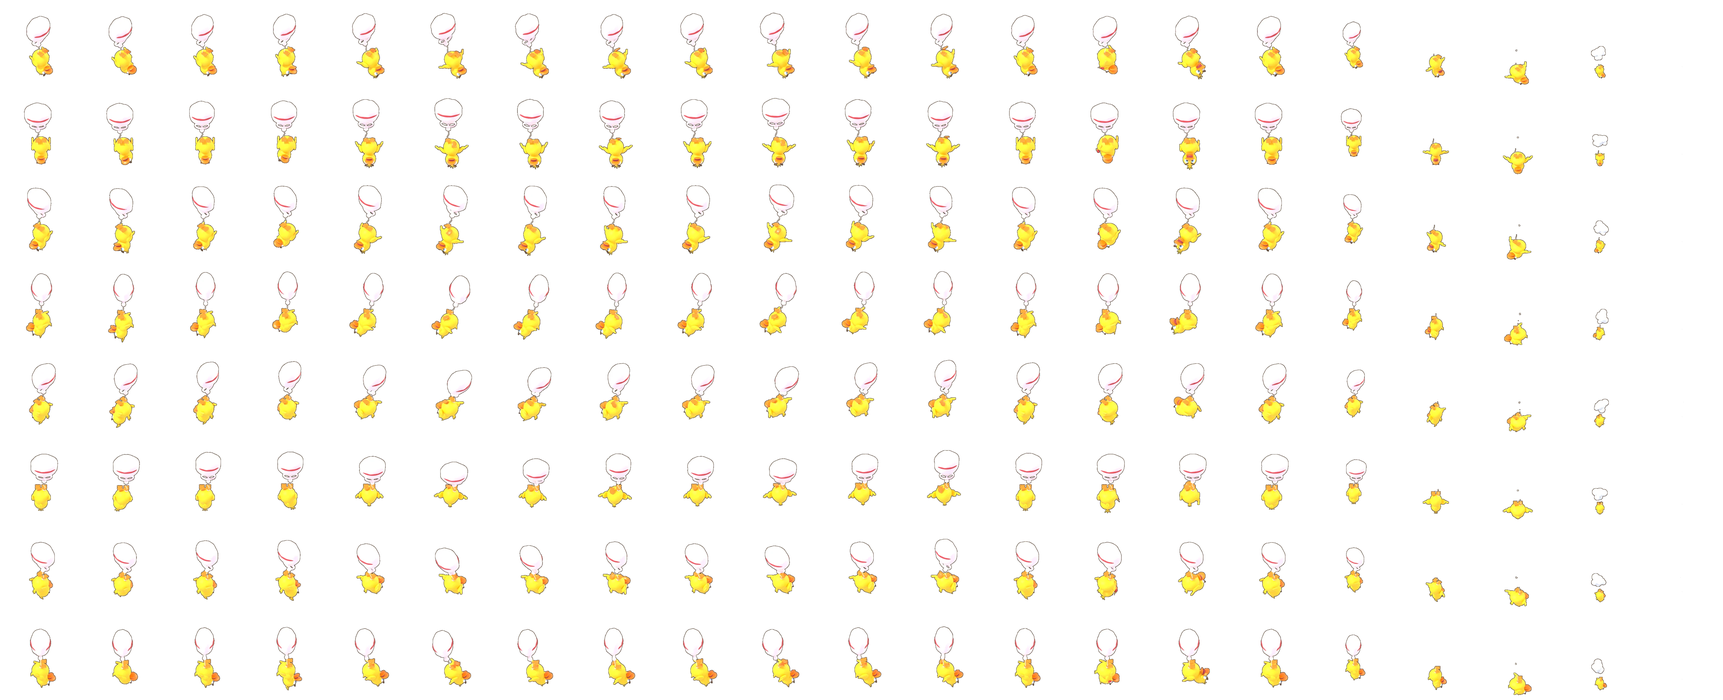
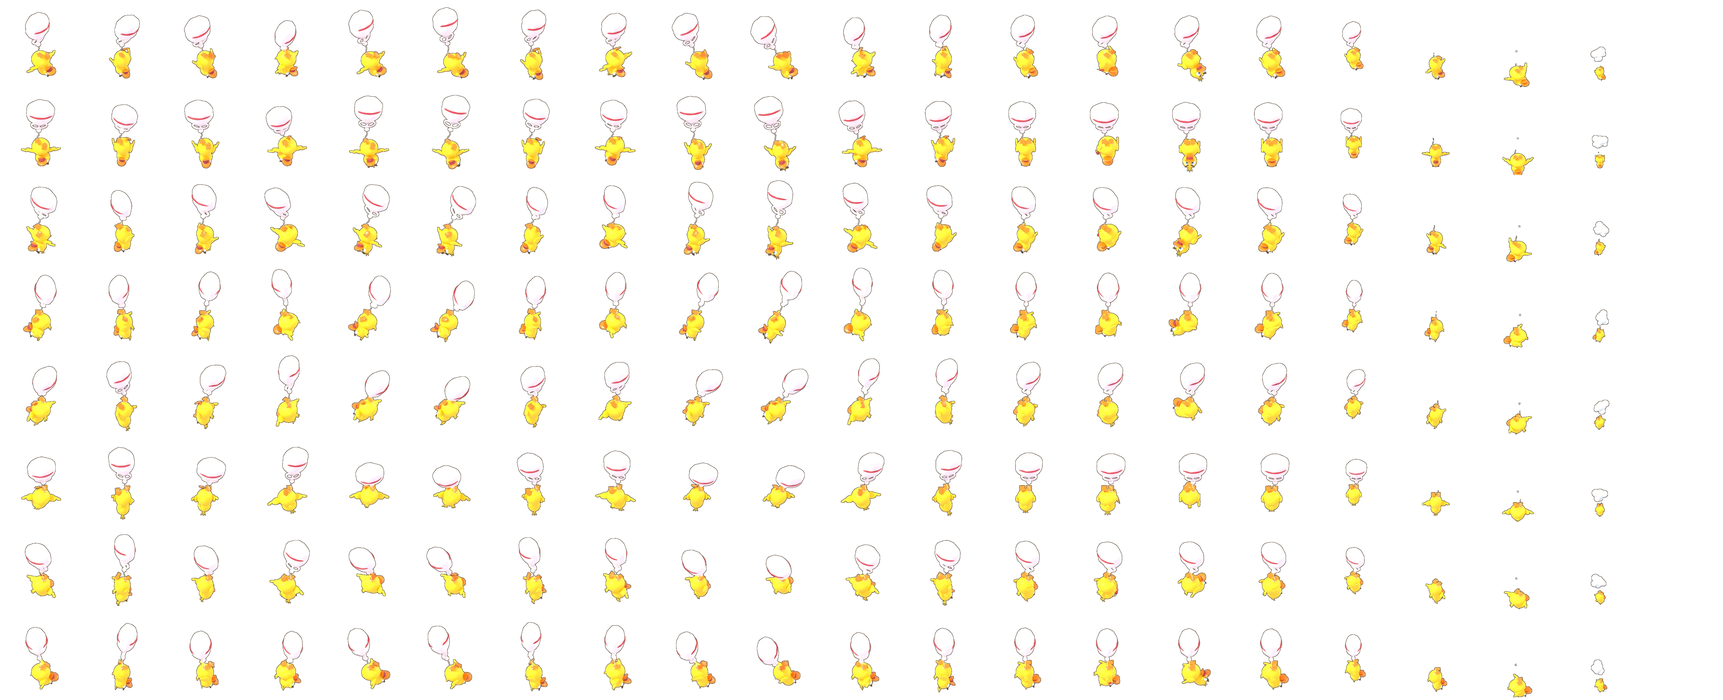
Bag-balloon duck struggles in the air
It was carried off by a shopping bag tied to its foot, so it flails:
wings flapping, beak squawking, body twisting, free leg kicking, bag
tugging and swaying. Frequencies chosen so the 4/8 sampled atlas
frames all differ.

Claude-Session: https://claude.ai/code/session_01ENEEn6jJGjfiPi3hSYqQHy

diff --git a/web/game.js b/web/game.js
@@ -1,5 +1,5 @@
 "use strict";
-var ART={"buildings":{"hq":{"stages":[{"file":"b_hq_1.webp","ax":244.0,"ay":222.4,"ppu":120.084,"w":564,"h":461},{"file":"b_hq_2.webp","ax":207.0,"ay":241.4,"ppu":120.084,"w":527,"h":480},{"file":"b_hq_3.webp","ax":236.0,"ay":332.4,"ppu":120.084,"w":556,"h":571},{"file":"b_hq_4.webp","ax":213.0,"ay":346.4,"ppu":120.084,"w":533,"h":585},{"file":"b_hq_5.webp","ax":279.0,"ay":401.4,"ppu":120.084,"w":599,"h":640}],"rubble":{"file":"b_hq_rubble.webp","ax":207.0,"ay":139.4,"ppu":120.084,"w":414,"h":282}},"barracks":{"stages":[{"file":"b_barracks_1.webp","ax":99.0,"ay":149.4,"ppu":72.199,"w":244,"h":206},{"file":"b_barracks_2.webp","ax":91.0,"ay":219.4,"ppu":72.199,"w":283,"h":276},{"file":"b_barracks_3.webp","ax":91.0,"ay":232.4,"ppu":72.199,"w":283,"h":290},{"file":"b_barracks_4.webp","ax":91.0,"ay":246.4,"ppu":72.199,"w":283,"h":344},{"file":"b_barracks_5.webp","ax":105.0,"ay":259.4,"ppu":72.199,"w":297,"h":357}],"rubble":{"file":"b_barracks_rubble.webp","ax":94.0,"ay":113.4,"ppu":72.199,"w":203,"h":170}},"workshop":{"stages":[{"file":"b_workshop_1.webp","ax":97.0,"ay":193.4,"ppu":72.571,"w":289,"h":291},{"file":"b_workshop_2.webp","ax":102.0,"ay":209.4,"ppu":72.571,"w":294,"h":308},{"file":"b_workshop_3.webp","ax":105.0,"ay":232.4,"ppu":72.571,"w":297,"h":331},{"file":"b_workshop_4.webp","ax":113.0,"ay":238.4,"ppu":72.571,"w":305,"h":337},{"file":"b_workshop_5.webp","ax":114.0,"ay":285.4,"ppu":72.571,"w":306,"h":384}],"rubble":{"file":"b_workshop_rubble.webp","ax":95.0,"ay":112.4,"ppu":72.571,"w":214,"h":169}},"honeypump":{"stages":[{"file":"b_honeypump_1.webp","ax":73.0,"ay":131.4,"ppu":50.242,"w":240,"h":171},{"file":"b_honeypump_2.webp","ax":68.0,"ay":138.4,"ppu":50.242,"w":236,"h":178},{"file":"b_honeypump_3.webp","ax":68.0,"ay":156.4,"ppu":50.242,"w":260,"h":206},{"file":"b_honeypump_4.webp","ax":67.0,"ay":192.4,"ppu":50.242,"w":259,"h":243},{"file":"b_honeypump_5.webp","ax":77.0,"ay":192.4,"ppu":50.242,"w":269,"h":290}],"rubble":{"file":"b_honeypump_rubble.webp","ax":102.0,"ay":113.4,"ppu":50.242,"w":206,"h":153}},"veggieblender":{"stages":[{"file":"b_veggieblender_1.webp","ax":131.0,"ay":285.4,"ppu":96.762,"w":323,"h":361},{"file":"b_veggieblender_2.webp","ax":131.0,"ay":285.4,"ppu":96.762,"w":323,"h":361},{"file":"b_veggieblender_3.webp","ax":131.0,"ay":185.4,"ppu":96.762,"w":323,"h":261},{"file":"b_veggieblender_4.webp","ax":131.0,"ay":190.4,"ppu":96.762,"w":323,"h":266},{"file":"b_veggieblender_5.webp","ax":132.0,"ay":210.4,"ppu":96.762,"w":324,"h":286}],"rubble":{"file":"b_veggieblender_rubble.webp","ax":112.0,"ay":113.4,"ppu":96.762,"w":224,"h":189}},"syrupstove":{"stages":[{"file":"b_syrupstove_1.webp","ax":48.0,"ay":133.4,"ppu":41.379,"w":202,"h":184},{"file":"b_syrupstove_2.webp","ax":112.0,"ay":138.4,"ppu":41.379,"w":284,"h":188},{"file":"b_syrupstove_3.webp","ax":112.0,"ay":155.4,"ppu":41.379,"w":304,"h":205},{"file":"b_syrupstove_4.webp","ax":112.0,"ay":166.4,"ppu":41.379,"w":304,"h":264},{"file":"b_syrupstove_5.webp","ax":112.0,"ay":197.4,"ppu":41.379,"w":304,"h":295}],"rubble":{"file":"b_syrupstove_rubble.webp","ax":94.0,"ay":112.4,"ppu":41.379,"w":211,"h":145}},"honeyjar":{"stages":[{"file":"b_honeyjar_1.webp","ax":60.0,"ay":137.4,"ppu":43.171,"w":252,"h":171},{"file":"b_honeyjar_2.webp","ax":66.0,"ay":155.4,"ppu":43.171,"w":258,"h":199},{"file":"b_honeyjar_3.webp","ax":70.0,"ay":173.4,"ppu":43.171,"w":262,"h":271},{"file":"b_honeyjar_4.webp","ax":94.0,"ay":191.4,"ppu":43.171,"w":286,"h":289},{"file":"b_honeyjar_5.webp","ax":99.0,"ay":209.4,"ppu":43.171,"w":291,"h":308}],"rubble":{"file":"b_honeyjar_rubble.webp","ax":94.0,"ay":124.4,"ppu":43.171,"w":198,"h":159}},"veggiejar":{"stages":[{"file":"b_veggiejar_1.webp","ax":60.0,"ay":137.4,"ppu":43.171,"w":252,"h":171},{"file":"b_veggiejar_2.webp","ax":67.0,"ay":155.4,"ppu":43.171,"w":259,"h":200},{"file":"b_veggiejar_3.webp","ax":70.0,"ay":173.4,"ppu":43.171,"w":262,"h":271},{"file":"b_veggiejar_4.webp","ax":95.0,"ay":191.4,"ppu":43.171,"w":287,"h":289},{"file":"b_veggiejar_5.webp","ax":99.0,"ay":209.4,"ppu":43.171,"w":291,"h":308}],"rubble":{"file":"b_veggiejar_rubble.webp","ax":96.0,"ay":124.4,"ppu":43.171,"w":200,"h":159}},"syrupjar":{"stages":[{"file":"b_syrupjar_1.webp","ax":60.0,"ay":137.4,"ppu":43.171,"w":252,"h":171},{"file":"b_syrupjar_2.webp","ax":67.0,"ay":155.4,"ppu":43.171,"w":259,"h":200},{"file":"b_syrupjar_3.webp","ax":70.0,"ay":173.4,"ppu":43.171,"w":262,"h":271},{"file":"b_syrupjar_4.webp","ax":101.0,"ay":191.4,"ppu":43.171,"w":293,"h":289},{"file":"b_syrupjar_5.webp","ax":99.0,"ay":209.4,"ppu":43.171,"w":291,"h":308}],"rubble":{"file":"b_syrupjar_rubble.webp","ax":98.0,"ay":124.4,"ppu":43.171,"w":202,"h":159}},"camp":{"stages":[{"file":"b_camp_1.webp","ax":270.5,"ay":357.1,"ppu":67.237,"w":542,"h":543},{"file":"b_camp_2.webp","ax":270.5,"ay":357.1,"ppu":67.237,"w":542,"h":543},{"file":"b_camp_3.webp","ax":270.5,"ay":357.1,"ppu":67.237,"w":542,"h":543},{"file":"b_camp_4.webp","ax":221.5,"ay":357.1,"ppu":67.237,"w":493,"h":543},{"file":"b_camp_5.webp","ax":221.5,"ay":357.1,"ppu":67.237,"w":493,"h":543}],"rubble":{"file":"b_camp_rubble.webp","ax":270.5,"ay":356.1,"ppu":67.237,"w":542,"h":542}},"airfield":{"stages":[{"file":"b_airfield_1.webp","ax":183.5,"ay":379.2,"ppu":59.918,"w":415,"h":463},{"file":"b_airfield_2.webp","ax":229.5,"ay":379.2,"ppu":59.918,"w":461,"h":463},{"file":"b_airfield_3.webp","ax":229.5,"ay":379.2,"ppu":59.918,"w":461,"h":463},{"file":"b_airfield_4.webp","ax":229.5,"ay":379.2,"ppu":59.918,"w":461,"h":463},{"file":"b_airfield_5.webp","ax":229.5,"ay":379.2,"ppu":59.918,"w":461,"h":463}],"rubble":{"file":"b_airfield_rubble.webp","ax":230.5,"ay":378.2,"ppu":59.918,"w":462,"h":462}},"lab":{"stages":[{"file":"b_lab_1.webp","ax":67.0,"ay":123.4,"ppu":48.009,"w":207,"h":161},{"file":"b_lab_2.webp","ax":101.0,"ay":211.4,"ppu":48.009,"w":293,"h":272},{"file":"b_lab_3.webp","ax":107.0,"ay":221.4,"ppu":48.009,"w":299,"h":320},{"file":"b_lab_4.webp","ax":117.0,"ay":234.4,"ppu":48.009,"w":309,"h":333},{"file":"b_lab_5.webp","ax":116.0,"ay":229.4,"ppu":48.009,"w":308,"h":287}],"rubble":{"file":"b_lab_rubble.webp","ax":95.0,"ay":112.4,"ppu":48.009,"w":207,"h":150}},"pantry":{"stages":[{"file":"b_pantry_1.webp","ax":113.0,"ay":162.4,"ppu":70.711,"w":305,"h":260},{"file":"b_pantry_2.webp","ax":118.0,"ay":224.4,"ppu":70.711,"w":310,"h":322},{"file":"b_pantry_3.webp","ax":119.0,"ay":237.4,"ppu":70.711,"w":311,"h":336},{"file":"b_pantry_4.webp","ax":120.0,"ay":285.4,"ppu":70.711,"w":312,"h":384},{"file":"b_pantry_5.webp","ax":120.0,"ay":275.4,"ppu":70.711,"w":312,"h":373}],"rubble":{"file":"b_pantry_rubble.webp","ax":96.0,"ay":123.4,"ppu":70.711,"w":200,"h":179}},"hero":{"stages":[{"file":"b_hero_1.webp","ax":89.0,"ay":198.6,"ppu":72.199,"w":301,"h":262},{"file":"b_hero_2.webp","ax":103.0,"ay":198.6,"ppu":72.199,"w":315,"h":277},{"file":"b_hero_3.webp","ax":107.0,"ay":333.6,"ppu":72.199,"w":319,"h":421},{"file":"b_hero_4.webp","ax":107.0,"ay":334.6,"ppu":72.199,"w":319,"h":422},{"file":"b_hero_5.webp","ax":126.0,"ay":334.6,"ppu":72.199,"w":338,"h":422}],"rubble":{"file":"b_hero_rubble.webp","ax":96.0,"ay":137.6,"ppu":72.199,"w":308,"h":194}}},"turrets":{"slingshot":{"stages":[{"file":"t_slingshot_1.webp","cell":192,"ax":96.0,"ay":165.7,"ppu":79.948,"tips":[[107.5,134.6],[102.0,138.3],[94.2,138.9],[88.8,137.7],[83.9,134.6],[80.9,130.4],[77.3,74.9],[70.0,102.0],[67.0,93.6],[67.6,85.1],[117.1,77.3],[123.2,85.1],[124.4,93.6],[121.4,102.6],[114.1,74.9],[110.5,130.4]]},{"file":"t_slingshot_2.webp","cell":192,"ax":96.0,"ay":165.6,"ppu":78.955,"tips":[[109.1,132.5],[103.8,136.1],[94.2,137.9],[87.7,136.1],[82.3,132.5],[79.9,129.6],[75.7,68.7],[68.6,95.6],[63.8,87.2],[63.8,77.7],[120.4,68.7],[126.4,77.1],[127.6,87.2],[122.8,95.6],[115.7,68.7],[112.1,127.8]]},{"file":"t_slingshot_3.webp","cell":192,"ax":96.0,"ay":166.5,"ppu":77.041,"tips":[[110.5,129.6],[104.1,134.3],[96.0,136.0],[87.3,134.3],[82.0,131.4],[75.1,117.4],[74.5,104.0],[66.3,90.1],[62.3,79.0],[61.1,69.7],[94.3,55.7],[130.3,69.7],[130.3,80.7],[125.1,89.5],[116.9,104.0],[116.4,118.0]]},{"file":"t_slingshot_4.webp","cell":192,"ax":96.0,"ay":166.7,"ppu":66.207,"tips":[[109.0,135.0],[104.5,137.5],[95.0,139.5],[87.0,137.5],[82.5,135.0],[76.5,123.5],[75.5,108.0],[66.0,101.5],[55.0,95.0],[58.5,76.5],[80.5,64.0],[133.0,76.5],[137.0,94.5],[126.0,103.5],[116.0,108.0],[115.5,122.0]]},{"file":"t_slingshot_5.webp","cell":192,"ax":96.0,"ay":164.2,"ppu":66.207,"tips":[[111.0,128.5],[106.5,131.5],[94.0,134.0],[85.0,131.5],[79.5,127.5],[74.0,115.0],[73.0,100.5],[63.0,93.0],[51.5,85.5],[88.5,44.5],[95.5,44.5],[103.0,45.0],[141.0,85.5],[128.5,93.0],[118.5,100.0],[117.5,115.0]]}],"fit":1.894},"boxtower":{"stages":[{"file":"t_boxtower_1.webp","cell":192,"ax":96.0,"ay":168.4,"ppu":79.448,"tips":[[106.2,114.2],[101.4,120.8],[90.6,122.0],[90.0,120.8],[85.2,114.2],[79.2,102.8],[79.8,97.4],[79.2,99.2],[81.0,94.4],[85.8,90.8],[90.6,89.0],[105.6,90.8],[110.4,95.0],[112.2,99.2],[111.6,97.4],[112.2,102.2]]},{"file":"t_boxtower_2.webp","cell":192,"ax":96.0,"ay":166.7,"ppu":66.207,"tips":[[104.0,107.0],[101.0,111.5],[92.0,113.0],[91.0,111.5],[87.5,107.0],[82.0,96.5],[82.5,92.0],[82.0,93.5],[83.5,90.0],[87.5,86.5],[92.0,85.0],[104.0,86.5],[108.0,90.0],[109.5,93.5],[109.0,92.0],[109.5,96.5]]},{"file":"t_boxtower_3.webp","cell":192,"ax":96.0,"ay":142.7,"ppu":66.207,"tips":[[112.5,63.0],[110.5,71.5],[80.0,75.5],[80.0,71.0],[80.0,64.5],[78.0,52.5],[82.5,46.5],[77.5,64.5],[75.5,59.0],[76.5,53.0],[104.0,48.0],[115.0,53.0],[116.0,59.0],[114.0,64.5],[109.0,46.5],[112.0,57.0]]},{"file":"t_boxtower_4.webp","cell":192,"ax":96.0,"ay":143.7,"ppu":66.207,"tips":[[111.5,59.0],[111.0,65.5],[80.0,70.0],[80.0,65.5],[80.0,59.0],[78.0,47.0],[82.5,41.0],[78.0,58.5],[75.5,53.5],[76.5,47.5],[104.0,42.5],[115.0,47.5],[116.0,53.0],[114.0,59.0],[109.0,41.0],[113.5,47.0]]},{"file":"t_boxtower_5.webp","cell":192,"ax":96.0,"ay":143.2,"ppu":66.207,"tips":[[115.0,49.0],[115.0,57.5],[75.5,63.0],[76.0,57.0],[76.5,49.0],[76.0,36.0],[82.5,30.5],[76.0,54.5],[72.5,48.5],[72.5,41.5],[115.0,35.0],[119.0,41.5],[119.0,48.5],[115.5,55.0],[109.0,30.5],[115.5,36.0]]}],"fit":2.147},"mortar":{"stages":[{"file":"t_mortar_1.webp","cell":192,"ax":96.0,"ay":160.0,"ppu":94.864,"tips":[[122.5,114.6],[115.3,121.7],[91.0,126.7],[75.9,121.7],[68.8,114.6],[66.6,109.6],[65.9,97.4],[65.9,97.4],[78.1,76.6],[82.4,73.0],[88.8,70.1],[108.9,73.0],[113.2,77.3],[125.4,97.4],[125.4,98.1],[125.4,107.4]]},{"file":"t_mortar_2.webp","cell":192,"ax":96.0,"ay":164.0,"ppu":83.083,"tips":[[119.8,120.5],[113.6,126.1],[96.0,131.1],[77.8,126.1],[70.9,119.8],[68.4,113.6],[67.8,104.8],[69.6,97.9],[72.8,93.5],[74.7,86.6],[106.0,80.9],[118.0,87.2],[120.5,96.0],[123.6,104.2],[123.6,106.0],[122.4,115.5]]},{"file":"t_mortar_3.webp","cell":192,"ax":96.0,"ay":165.7,"ppu":70.231,"tips":[[118.3,123.6],[111.9,130.0],[94.9,134.2],[79.0,129.5],[73.7,124.2],[71.6,119.9],[71.1,109.8],[71.1,109.3],[69.5,108.2],[68.4,99.8],[92.8,89.2],[124.1,100.3],[121.5,107.2],[120.4,109.3],[120.4,109.8],[120.4,118.3]]},{"file":"t_mortar_4.webp","cell":192,"ax":96.0,"ay":164.2,"ppu":66.207,"tips":[[118.0,123.0],[112.5,128.5],[95.5,133.5],[79.0,128.5],[73.5,123.0],[71.0,116.5],[71.0,110.5],[71.0,109.0],[63.0,115.0],[57.0,105.5],[104.0,91.0],[133.0,104.5],[128.0,114.5],[119.5,106.0],[120.5,110.5],[120.5,116.5]]},{"file":"t_mortar_5.webp","cell":192,"ax":96.0,"ay":143.7,"ppu":66.207,"tips":[[119.0,99.0],[113.0,104.5],[95.5,109.5],[79.0,105.0],[72.0,98.0],[70.5,94.5],[69.5,86.0],[70.5,81.5],[55.0,97.0],[44.5,85.5],[93.5,64.5],[146.0,85.0],[136.5,97.0],[121.0,81.5],[122.0,86.0],[120.5,96.0]]}],"fit":2.515},"watergun":{"stages":[{"file":"t_watergun_1.webp","cell":192,"ax":96.0,"ay":168.3,"ppu":97.036,"tips":[[135.6,104.3],[112.9,127.0],[90.1,131.4],[79.1,127.7],[55.7,104.3],[44.0,90.4],[40.3,72.0],[44.0,57.4],[55.7,44.2],[74.0,34.7],[96.0,31.0],[117.3,34.7],[135.6,44.2],[147.3,57.4],[151.0,72.8],[147.3,91.1]]},{"file":"t_watergun_2.webp","cell":192,"ax":96.0,"ay":169.8,"ppu":83.63,"tips":[[135.2,107.1],[111.8,129.8],[95.4,134.2],[79.6,129.8],[56.2,107.1],[46.7,93.2],[45.5,76.1],[47.4,69.2],[56.2,56.5],[71.4,47.1],[90.3,42.6],[119.4,47.1],[135.2,57.2],[144.0,69.2],[145.9,76.7],[144.6,92.5]]},{"file":"t_watergun_3.webp","cell":192,"ax":96.0,"ay":168.1,"ppu":69.845,"tips":[[133.5,108.3],[109.7,131.0],[94.4,134.7],[81.8,131.0],[58.0,108.3],[51.7,96.7],[51.7,81.4],[51.7,80.9],[58.0,69.3],[70.7,59.8],[87.0,54.5],[120.8,59.8],[132.9,68.8],[139.8,80.9],[139.8,81.4],[139.8,96.7]]},{"file":"t_watergun_4.webp","cell":192,"ax":96.0,"ay":167.7,"ppu":66.207,"tips":[[118.0,130.5],[108.0,136.0],[95.5,137.5],[83.5,136.0],[73.0,130.5],[50.5,94.5],[52.0,79.0],[50.5,84.0],[56.0,71.5],[68.0,61.0],[83.0,55.5],[123.5,61.0],[135.5,71.5],[141.0,84.0],[139.5,79.0],[141.0,94.5]]},{"file":"t_watergun_5.webp","cell":192,"ax":96.0,"ay":161.7,"ppu":66.207,"tips":[[132.5,107.0],[108.5,126.5],[95.5,128.0],[83.0,126.5],[59.0,107.0],[49.0,93.5],[46.5,77.0],[49.0,67.5],[58.5,55.0],[72.5,46.5],[92.5,42.0],[119.0,46.5],[133.0,55.0],[142.5,67.5],[145.0,77.0],[142.5,93.5]]}],"fit":2.554},"chili":{"stages":[{"file":"t_chili_1.webp","cell":192,"ax":96.0,"ay":171.1,"ppu":72.638,"tips":[[114.7,126.4],[109.7,130.8],[93.8,134.6],[82.3,131.3],[77.3,127.0],[72.4,114.9],[70.8,103.4],[71.9,99.5],[76.8,92.9],[82.3,89.7],[91.1,86.4],[108.1,89.1],[116.3,95.1],[119.6,99.5],[120.7,103.9],[118.5,117.1]]},{"file":"t_chili_2.webp","cell":192,"ax":96.0,"ay":169.2,"ppu":66.207,"tips":[[113.5,121.0],[108.5,126.0],[95.0,129.5],[83.0,126.0],[78.5,122.0],[73.0,114.5],[70.5,99.0],[71.5,95.5],[76.0,89.0],[83.0,84.5],[93.0,82.0],[108.5,84.5],[116.0,89.5],[120.0,95.0],[121.0,99.0],[119.5,111.5]]},{"file":"t_chili_3.webp","cell":192,"ax":96.0,"ay":164.7,"ppu":66.207,"tips":[[117.0,108.5],[108.5,115.0],[95.5,118.5],[83.0,115.0],[73.5,107.0],[70.0,102.0],[68.0,85.5],[69.0,82.0],[73.5,75.5],[82.5,69.5],[94.0,67.0],[109.0,69.5],[118.0,75.5],[122.5,82.0],[123.5,86.0],[122.0,100.0]]},{"file":"t_chili_4.webp","cell":192,"ax":96.0,"ay":143.7,"ppu":66.207,"tips":[[119.0,83.0],[108.5,90.5],[94.0,93.0],[81.5,89.5],[72.5,83.0],[67.5,74.0],[66.0,59.5],[67.0,55.5],[72.0,48.0],[79.0,43.0],[93.0,39.0],[111.5,42.5],[120.0,48.5],[124.5,55.5],[125.5,59.5],[123.5,76.0]]},{"file":"t_chili_5.webp","cell":192,"ax":96.0,"ay":143.7,"ppu":66.207,"tips":[[120.5,79.0],[111.0,86.0],[95.0,89.5],[80.5,86.0],[71.0,79.0],[65.5,69.5],[64.0,54.0],[65.0,50.0],[70.0,42.0],[79.0,35.5],[91.5,32.0],[112.5,35.5],[121.5,42.0],[126.0,48.0],[127.5,54.0],[125.5,71.0]]}],"fit":2.443},"rockets":{"stages":[{"file":"t_rockets_1.webp","cell":192,"ax":96.0,"ay":167.9,"ppu":94.864,"tips":[[120.4,122.5],[113.2,128.9],[91.0,133.2],[78.1,128.9],[70.9,122.5],[58.0,93.1],[57.3,81.6],[57.3,81.6],[63.8,71.6],[74.5,63.7],[103.2,58.7],[117.5,63.7],[127.5,71.6],[134.0,81.6],[133.3,81.6],[133.3,93.1]]},{"file":"t_rockets_2.webp","cell":192,"ax":96.0,"ay":169.5,"ppu":83.63,"tips":[[118.7,125.1],[113.1,130.1],[94.7,135.2],[78.3,130.1],[73.9,126.3],[59.4,98.5],[58.1,87.2],[58.7,86.5],[68.2,71.4],[77.1,64.4],[89.1,60.6],[114.3,64.4],[122.5,71.4],[132.6,86.5],[132.6,87.2],[132.6,98.5]]},{"file":"t_rockets_3.webp","cell":192,"ax":96.0,"ay":167.9,"ppu":70.231,"tips":[[116.7,125.8],[111.4,131.1],[93.3,135.3],[81.1,131.6],[74.8,125.8],[62.1,99.8],[63.6,89.7],[62.1,96.6],[65.2,87.0],[74.8,75.9],[84.3,71.1],[116.7,75.9],[123.6,82.8],[129.9,96.6],[127.8,89.7],[129.4,99.8]]},{"file":"t_rockets_4.webp","cell":192,"ax":96.0,"ay":165.2,"ppu":66.207,"tips":[[116.5,124.0],[110.5,129.5],[91.0,133.0],[81.0,129.5],[75.0,124.0],[61.0,99.0],[62.5,88.5],[61.0,94.5],[70.5,77.0],[76.5,70.5],[85.0,66.0],[115.0,70.5],[121.0,77.0],[130.5,94.5],[129.0,88.5],[130.5,99.0]]},{"file":"t_rockets_5.webp","cell":192,"ax":96.0,"ay":159.7,"ppu":66.207,"tips":[[118.0,114.0],[112.0,120.0],[95.0,124.5],[79.5,120.0],[74.5,115.5],[58.0,85.5],[61.5,82.5],[58.0,87.5],[60.5,76.5],[71.0,61.0],[80.0,55.0],[120.5,61.5],[128.0,73.0],[133.5,87.5],[130.0,74.5],[133.5,85.5]]}],"fit":2.515},"fan":{"stages":[{"file":"t_fan_1.webp","cell":192,"ax":96.0,"ay":167.8,"ppu":96.301,"tips":[[111.3,93.4],[96.7,111.5],[93.8,111.5],[93.8,110.8],[80.0,93.4],[80.7,85.4],[82.9,75.9],[79.3,76.6],[79.3,65.0],[84.4,57.0],[91.6,53.4],[108.4,57.7],[112.7,65.7],[112.0,76.6],[108.4,75.9],[111.3,83.2]]},{"file":"t_fan_2.webp","cell":192,"ax":96.0,"ay":169.8,"ppu":83.63,"tips":[[113.7,94.4],[96.6,115.3],[94.1,115.3],[94.7,115.3],[79.6,96.9],[82.1,91.9],[84.6,82.4],[81.5,78.0],[78.9,71.7],[84.6,62.8],[92.8,59.1],[108.0,63.5],[111.8,71.1],[110.5,79.9],[106.7,81.8],[109.3,91.9]]},{"file":"t_fan_3.webp","cell":192,"ax":96.0,"ay":167.9,"ppu":70.231,"tips":[[109.8,101.9],[96.5,117.3],[95.5,117.8],[94.9,117.3],[81.7,101.9],[83.8,97.1],[86.5,87.0],[82.7,83.9],[80.6,77.0],[84.3,69.5],[95.5,65.3],[107.1,69.5],[109.8,75.9],[108.2,82.3],[105.0,87.0],[109.8,90.2]]},{"file":"t_fan_4.webp","cell":192,"ax":96.0,"ay":164.7,"ppu":66.207,"tips":[[118.5,93.5],[98.5,114.0],[94.5,115.0],[93.0,114.0],[73.0,93.5],[79.5,88.0],[87.0,84.5],[79.5,85.0],[73.5,79.0],[93.0,58.5],[95.5,58.0],[99.0,58.5],[118.5,79.0],[112.0,84.5],[104.5,85.0],[112.0,88.0]]},{"file":"t_fan_5.webp","cell":192,"ax":96.0,"ay":159.7,"ppu":66.207,"tips":[[120.5,82.5],[98.5,105.0],[95.5,106.0],[93.0,104.5],[71.0,82.5],[78.0,76.0],[87.0,73.0],[78.5,73.0],[71.5,67.0],[92.5,44.0],[95.5,44.5],[99.0,44.0],[120.0,67.0],[113.0,73.5],[104.5,73.0],[113.5,76.0]]}],"fit":2.515},"lens":{"stages":[{"file":"t_lens_1.webp","cell":192,"ax":96.0,"ay":167.8,"ppu":100.887,"tips":[[112.0,98.1],[105.1,104.2],[90.7,105.8],[84.6,103.5],[79.2,98.1],[57.9,63.9],[56.4,53.2],[57.9,47.9],[64.8,37.2],[76.2,29.6],[91.4,25.8],[116.6,30.3],[127.2,38.0],[133.3,47.1],[134.9,52.4],[133.3,63.9]]},{"file":"t_lens_2.webp","cell":192,"ax":96.0,"ay":169.3,"ppu":88.276,"tips":[[128.7,75.7],[104.0,105.0],[90.7,106.3],[85.3,103.7],[64.0,77.0],[58.7,67.0],[57.3,59.7],[59.3,51.7],[66.7,41.7],[75.3,36.3],[92.7,31.7],[116.0,36.3],[124.7,41.7],[132.0,51.7],[133.3,57.0],[132.7,67.0]]},{"file":"t_lens_3.webp","cell":192,"ax":96.0,"ay":174.2,"ppu":66.207,"tips":[[117.5,121.5],[90.0,137.5],[75.0,134.0],[65.0,126.0],[60.5,117.0],[60.0,105.5],[65.5,94.0],[68.0,81.5],[73.5,72.5],[80.5,68.0],[93.0,64.5],[111.0,68.0],[118.0,72.5],[123.0,79.5],[126.0,103.5],[124.0,113.5]]},{"file":"t_lens_4.webp","cell":192,"ax":96.0,"ay":169.7,"ppu":66.207,"tips":[[132.5,107.5],[127.5,117.5],[75.5,126.0],[65.0,118.0],[60.0,108.5],[59.0,95.5],[65.0,85.0],[67.0,71.5],[71.5,64.0],[80.5,57.5],[92.0,54.5],[108.0,56.0],[120.0,64.0],[124.5,71.5],[126.5,85.0],[132.5,95.5]]},{"file":"t_lens_5.webp","cell":192,"ax":96.0,"ay":163.7,"ppu":66.207,"tips":[[132.0,96.5],[127.0,106.0],[75.0,114.0],[64.5,106.0],[59.5,96.5],[58.5,83.5],[63.5,60.5],[64.5,56.5],[68.5,50.0],[80.0,41.5],[92.5,38.5],[112.5,42.0],[122.5,49.5],[127.0,56.5],[128.0,60.0],[133.0,83.5]]}],"fit":3.2}},"troops":{"fork":{"file":"u_fork.webp","ax":90.0,"ay":150.4,"h":147.4},"sling":{"file":"u_sling.webp","ax":90.0,"ay":150.4,"h":120.4},"giant":{"file":"u_giant.webp","ax":90.0,"ay":155.8,"h":136.8},"nurse":{"file":"u_nurse.webp","ax":90.0,"ay":163.6,"h":141.6},"digger":{"file":"u_digger.webp","ax":90.0,"ay":145.5,"h":121.5},"pot":{"file":"u_pot.webp","ax":90.0,"ay":152.0,"h":131.0},"chef":{"file":"u_chef.webp","ax":90.0,"ay":153.5,"h":123.5},"pig":{"file":"u_pig.webp","ax":90.0,"ay":155.7,"h":142.7},"bomber":{"file":"u_bomber.webp","ax":90.0,"ay":150.4,"h":110.4},"witch":{"file":"u_witch.webp","ax":90.0,"ay":155.1,"h":112.1},"dog":{"file":"u_dog.webp","ax":90.0,"ay":134.1,"h":104.1},"egret":{"file":"u_egret.webp","ax":90.0,"ay":150.9,"h":123.9},"cat_spatula":{"file":"u_cat_spatula.webp","ax":90.0,"ay":141.4,"h":107.4},"cat_pan":{"file":"u_cat_pan.webp","ax":90.0,"ay":144.1,"h":112.1},"cat_chili":{"file":"u_cat_chili.webp","ax":90.0,"ay":141.4,"h":105.4},"cat_bomb":{"file":"u_cat_bomb.webp","ax":90.0,"ay":141.4,"h":105.4},"cat_king":{"file":"u_cat_king.webp","ax":90.0,"ay":145.8,"h":125.8},"colonel":{"file":"u_colonel.webp","ax":135.0,"ay":221.9,"h":180.9,"cw":270,"ch":288},"balloon":{"file":"u_balloon.webp","ax":135.0,"ay":271.8,"h":235.8,"cw":270,"ch":288},"plane":{"file":"u_plane.webp","ax":90.0,"ay":145.2,"h":101.2}},"walls":{"1":{"post":{"file":"w_1_post.webp","ax":6.0,"ay":86.5,"ppu":132.5,"w":55,"h":67},"linkx":{"file":"w_1_linkx.webp","ax":2.0,"ay":54.5,"ppu":132.5,"w":51,"h":51},"linky":{"file":"w_1_linky.webp","ax":2.0,"ay":86.5,"ppu":132.5,"w":51,"h":46}},"2":{"post":{"file":"w_2_post.webp","ax":10.0,"ay":94.5,"ppu":132.5,"w":59,"h":76},"linkx":{"file":"w_2_linkx.webp","ax":2.0,"ay":59.5,"ppu":132.5,"w":51,"h":66},"linky":{"file":"w_2_linky.webp","ax":2.0,"ay":94.5,"ppu":132.5,"w":51,"h":66}},"3":{"post":{"file":"w_3_post.webp","ax":12.0,"ay":105.5,"ppu":132.5,"w":64,"h":90},"linkx":{"file":"w_3_linkx.webp","ax":4.0,"ay":70.5,"ppu":132.5,"w":55,"h":85},"linky":{"file":"w_3_linky.webp","ax":5.0,"ay":105.5,"ppu":132.5,"w":57,"h":84}},"4":{"post":{"file":"w_4_post.webp","ax":14.0,"ay":106.5,"ppu":132.5,"w":63,"h":92},"linkx":{"file":"w_4_linkx.webp","ax":2.0,"ay":73.5,"ppu":132.5,"w":51,"h":82},"linky":{"file":"w_4_linky.webp","ax":2.0,"ay":106.5,"ppu":132.5,"w":51,"h":81}},"5":{"post":{"file":"w_5_post.webp","ax":21.0,"ay":96.5,"ppu":132.5,"w":81,"h":83},"linkx":{"file":"w_5_linkx.webp","ax":7.0,"ay":64.5,"ppu":132.5,"w":67,"h":73},"linky":{"file":"w_5_linky.webp","ax":7.0,"ay":96.5,"ppu":132.5,"w":67,"h":73}},"6":{"post":{"file":"w_6_post.webp","ax":49.0,"ay":119.5,"ppu":132.5,"w":108,"h":115},"linkx":{"file":"w_6_linkx.webp","ax":12.0,"ay":84.5,"ppu":132.5,"w":71,"h":104},"linky":{"file":"w_6_linky.webp","ax":12.0,"ay":119.5,"ppu":132.5,"w":71,"h":104}}},"troopLayout":{"cw":180,"ch":192,"dirs":8,"idle":[0,4],"walk":[4,8],"attack":[12,4],"death":[16,5]}};
+var ART={"buildings":{"hq":{"stages":[{"file":"b_hq_1.webp","ax":244.0,"ay":222.4,"ppu":120.084,"w":564,"h":461},{"file":"b_hq_2.webp","ax":207.0,"ay":241.4,"ppu":120.084,"w":527,"h":480},{"file":"b_hq_3.webp","ax":236.0,"ay":332.4,"ppu":120.084,"w":556,"h":571},{"file":"b_hq_4.webp","ax":213.0,"ay":346.4,"ppu":120.084,"w":533,"h":585},{"file":"b_hq_5.webp","ax":279.0,"ay":401.4,"ppu":120.084,"w":599,"h":640}],"rubble":{"file":"b_hq_rubble.webp","ax":207.0,"ay":139.4,"ppu":120.084,"w":414,"h":282}},"barracks":{"stages":[{"file":"b_barracks_1.webp","ax":99.0,"ay":149.4,"ppu":72.199,"w":244,"h":206},{"file":"b_barracks_2.webp","ax":91.0,"ay":219.4,"ppu":72.199,"w":283,"h":276},{"file":"b_barracks_3.webp","ax":91.0,"ay":232.4,"ppu":72.199,"w":283,"h":290},{"file":"b_barracks_4.webp","ax":91.0,"ay":246.4,"ppu":72.199,"w":283,"h":344},{"file":"b_barracks_5.webp","ax":105.0,"ay":259.4,"ppu":72.199,"w":297,"h":357}],"rubble":{"file":"b_barracks_rubble.webp","ax":94.0,"ay":113.4,"ppu":72.199,"w":203,"h":170}},"workshop":{"stages":[{"file":"b_workshop_1.webp","ax":97.0,"ay":193.4,"ppu":72.571,"w":289,"h":291},{"file":"b_workshop_2.webp","ax":102.0,"ay":209.4,"ppu":72.571,"w":294,"h":308},{"file":"b_workshop_3.webp","ax":105.0,"ay":232.4,"ppu":72.571,"w":297,"h":331},{"file":"b_workshop_4.webp","ax":113.0,"ay":238.4,"ppu":72.571,"w":305,"h":337},{"file":"b_workshop_5.webp","ax":114.0,"ay":285.4,"ppu":72.571,"w":306,"h":384}],"rubble":{"file":"b_workshop_rubble.webp","ax":95.0,"ay":112.4,"ppu":72.571,"w":214,"h":169}},"honeypump":{"stages":[{"file":"b_honeypump_1.webp","ax":73.0,"ay":131.4,"ppu":50.242,"w":240,"h":171},{"file":"b_honeypump_2.webp","ax":68.0,"ay":138.4,"ppu":50.242,"w":236,"h":178},{"file":"b_honeypump_3.webp","ax":68.0,"ay":156.4,"ppu":50.242,"w":260,"h":206},{"file":"b_honeypump_4.webp","ax":67.0,"ay":192.4,"ppu":50.242,"w":259,"h":243},{"file":"b_honeypump_5.webp","ax":77.0,"ay":192.4,"ppu":50.242,"w":269,"h":290}],"rubble":{"file":"b_honeypump_rubble.webp","ax":102.0,"ay":113.4,"ppu":50.242,"w":206,"h":153}},"veggieblender":{"stages":[{"file":"b_veggieblender_1.webp","ax":131.0,"ay":285.4,"ppu":96.762,"w":323,"h":361},{"file":"b_veggieblender_2.webp","ax":131.0,"ay":285.4,"ppu":96.762,"w":323,"h":361},{"file":"b_veggieblender_3.webp","ax":131.0,"ay":185.4,"ppu":96.762,"w":323,"h":261},{"file":"b_veggieblender_4.webp","ax":131.0,"ay":190.4,"ppu":96.762,"w":323,"h":266},{"file":"b_veggieblender_5.webp","ax":132.0,"ay":210.4,"ppu":96.762,"w":324,"h":286}],"rubble":{"file":"b_veggieblender_rubble.webp","ax":112.0,"ay":113.4,"ppu":96.762,"w":224,"h":189}},"syrupstove":{"stages":[{"file":"b_syrupstove_1.webp","ax":48.0,"ay":133.4,"ppu":41.379,"w":202,"h":184},{"file":"b_syrupstove_2.webp","ax":112.0,"ay":138.4,"ppu":41.379,"w":284,"h":188},{"file":"b_syrupstove_3.webp","ax":112.0,"ay":155.4,"ppu":41.379,"w":304,"h":205},{"file":"b_syrupstove_4.webp","ax":112.0,"ay":166.4,"ppu":41.379,"w":304,"h":264},{"file":"b_syrupstove_5.webp","ax":112.0,"ay":197.4,"ppu":41.379,"w":304,"h":295}],"rubble":{"file":"b_syrupstove_rubble.webp","ax":94.0,"ay":112.4,"ppu":41.379,"w":211,"h":145}},"honeyjar":{"stages":[{"file":"b_honeyjar_1.webp","ax":60.0,"ay":137.4,"ppu":43.171,"w":252,"h":171},{"file":"b_honeyjar_2.webp","ax":66.0,"ay":155.4,"ppu":43.171,"w":258,"h":199},{"file":"b_honeyjar_3.webp","ax":70.0,"ay":173.4,"ppu":43.171,"w":262,"h":271},{"file":"b_honeyjar_4.webp","ax":94.0,"ay":191.4,"ppu":43.171,"w":286,"h":289},{"file":"b_honeyjar_5.webp","ax":99.0,"ay":209.4,"ppu":43.171,"w":291,"h":308}],"rubble":{"file":"b_honeyjar_rubble.webp","ax":94.0,"ay":124.4,"ppu":43.171,"w":198,"h":159}},"veggiejar":{"stages":[{"file":"b_veggiejar_1.webp","ax":60.0,"ay":137.4,"ppu":43.171,"w":252,"h":171},{"file":"b_veggiejar_2.webp","ax":67.0,"ay":155.4,"ppu":43.171,"w":259,"h":200},{"file":"b_veggiejar_3.webp","ax":70.0,"ay":173.4,"ppu":43.171,"w":262,"h":271},{"file":"b_veggiejar_4.webp","ax":95.0,"ay":191.4,"ppu":43.171,"w":287,"h":289},{"file":"b_veggiejar_5.webp","ax":99.0,"ay":209.4,"ppu":43.171,"w":291,"h":308}],"rubble":{"file":"b_veggiejar_rubble.webp","ax":96.0,"ay":124.4,"ppu":43.171,"w":200,"h":159}},"syrupjar":{"stages":[{"file":"b_syrupjar_1.webp","ax":60.0,"ay":137.4,"ppu":43.171,"w":252,"h":171},{"file":"b_syrupjar_2.webp","ax":67.0,"ay":155.4,"ppu":43.171,"w":259,"h":200},{"file":"b_syrupjar_3.webp","ax":70.0,"ay":173.4,"ppu":43.171,"w":262,"h":271},{"file":"b_syrupjar_4.webp","ax":101.0,"ay":191.4,"ppu":43.171,"w":293,"h":289},{"file":"b_syrupjar_5.webp","ax":99.0,"ay":209.4,"ppu":43.171,"w":291,"h":308}],"rubble":{"file":"b_syrupjar_rubble.webp","ax":98.0,"ay":124.4,"ppu":43.171,"w":202,"h":159}},"camp":{"stages":[{"file":"b_camp_1.webp","ax":270.5,"ay":357.1,"ppu":67.237,"w":542,"h":543},{"file":"b_camp_2.webp","ax":270.5,"ay":357.1,"ppu":67.237,"w":542,"h":543},{"file":"b_camp_3.webp","ax":270.5,"ay":357.1,"ppu":67.237,"w":542,"h":543},{"file":"b_camp_4.webp","ax":221.5,"ay":357.1,"ppu":67.237,"w":493,"h":543},{"file":"b_camp_5.webp","ax":221.5,"ay":357.1,"ppu":67.237,"w":493,"h":543}],"rubble":{"file":"b_camp_rubble.webp","ax":270.5,"ay":356.1,"ppu":67.237,"w":542,"h":542}},"airfield":{"stages":[{"file":"b_airfield_1.webp","ax":183.5,"ay":379.2,"ppu":59.918,"w":415,"h":463},{"file":"b_airfield_2.webp","ax":229.5,"ay":379.2,"ppu":59.918,"w":461,"h":463},{"file":"b_airfield_3.webp","ax":229.5,"ay":379.2,"ppu":59.918,"w":461,"h":463},{"file":"b_airfield_4.webp","ax":229.5,"ay":379.2,"ppu":59.918,"w":461,"h":463},{"file":"b_airfield_5.webp","ax":229.5,"ay":379.2,"ppu":59.918,"w":461,"h":463}],"rubble":{"file":"b_airfield_rubble.webp","ax":230.5,"ay":378.2,"ppu":59.918,"w":462,"h":462}},"lab":{"stages":[{"file":"b_lab_1.webp","ax":67.0,"ay":123.4,"ppu":48.009,"w":207,"h":161},{"file":"b_lab_2.webp","ax":101.0,"ay":211.4,"ppu":48.009,"w":293,"h":272},{"file":"b_lab_3.webp","ax":107.0,"ay":221.4,"ppu":48.009,"w":299,"h":320},{"file":"b_lab_4.webp","ax":117.0,"ay":234.4,"ppu":48.009,"w":309,"h":333},{"file":"b_lab_5.webp","ax":116.0,"ay":229.4,"ppu":48.009,"w":308,"h":287}],"rubble":{"file":"b_lab_rubble.webp","ax":95.0,"ay":112.4,"ppu":48.009,"w":207,"h":150}},"pantry":{"stages":[{"file":"b_pantry_1.webp","ax":113.0,"ay":162.4,"ppu":70.711,"w":305,"h":260},{"file":"b_pantry_2.webp","ax":118.0,"ay":224.4,"ppu":70.711,"w":310,"h":322},{"file":"b_pantry_3.webp","ax":119.0,"ay":237.4,"ppu":70.711,"w":311,"h":336},{"file":"b_pantry_4.webp","ax":120.0,"ay":285.4,"ppu":70.711,"w":312,"h":384},{"file":"b_pantry_5.webp","ax":120.0,"ay":275.4,"ppu":70.711,"w":312,"h":373}],"rubble":{"file":"b_pantry_rubble.webp","ax":96.0,"ay":123.4,"ppu":70.711,"w":200,"h":179}},"hero":{"stages":[{"file":"b_hero_1.webp","ax":89.0,"ay":198.6,"ppu":72.199,"w":301,"h":262},{"file":"b_hero_2.webp","ax":103.0,"ay":198.6,"ppu":72.199,"w":315,"h":277},{"file":"b_hero_3.webp","ax":107.0,"ay":333.6,"ppu":72.199,"w":319,"h":421},{"file":"b_hero_4.webp","ax":107.0,"ay":334.6,"ppu":72.199,"w":319,"h":422},{"file":"b_hero_5.webp","ax":126.0,"ay":334.6,"ppu":72.199,"w":338,"h":422}],"rubble":{"file":"b_hero_rubble.webp","ax":96.0,"ay":137.6,"ppu":72.199,"w":308,"h":194}}},"turrets":{"slingshot":{"stages":[{"file":"t_slingshot_1.webp","cell":192,"ax":96.0,"ay":165.7,"ppu":79.948,"tips":[[107.5,134.6],[102.0,138.3],[94.2,138.9],[88.8,137.7],[83.9,134.6],[80.9,130.4],[77.3,74.9],[70.0,102.0],[67.0,93.6],[67.6,85.1],[117.1,77.3],[123.2,85.1],[124.4,93.6],[121.4,102.6],[114.1,74.9],[110.5,130.4]]},{"file":"t_slingshot_2.webp","cell":192,"ax":96.0,"ay":165.6,"ppu":78.955,"tips":[[109.1,132.5],[103.8,136.1],[94.2,137.9],[87.7,136.1],[82.3,132.5],[79.9,129.6],[75.7,68.7],[68.6,95.6],[63.8,87.2],[63.8,77.7],[120.4,68.7],[126.4,77.1],[127.6,87.2],[122.8,95.6],[115.7,68.7],[112.1,127.8]]},{"file":"t_slingshot_3.webp","cell":192,"ax":96.0,"ay":166.5,"ppu":77.041,"tips":[[110.5,129.6],[104.1,134.3],[96.0,136.0],[87.3,134.3],[82.0,131.4],[75.1,117.4],[74.5,104.0],[66.3,90.1],[62.3,79.0],[61.1,69.7],[94.3,55.7],[130.3,69.7],[130.3,80.7],[125.1,89.5],[116.9,104.0],[116.4,118.0]]},{"file":"t_slingshot_4.webp","cell":192,"ax":96.0,"ay":166.7,"ppu":66.207,"tips":[[109.0,135.0],[104.5,137.5],[95.0,139.5],[87.0,137.5],[82.5,135.0],[76.5,123.5],[75.5,108.0],[66.0,101.5],[55.0,95.0],[58.5,76.5],[80.5,64.0],[133.0,76.5],[137.0,94.5],[126.0,103.5],[116.0,108.0],[115.5,122.0]]},{"file":"t_slingshot_5.webp","cell":192,"ax":96.0,"ay":164.2,"ppu":66.207,"tips":[[111.0,128.5],[106.5,131.5],[94.0,134.0],[85.0,131.5],[79.5,127.5],[74.0,115.0],[73.0,100.5],[63.0,93.0],[51.5,85.5],[88.5,44.5],[95.5,44.5],[103.0,45.0],[141.0,85.5],[128.5,93.0],[118.5,100.0],[117.5,115.0]]}],"fit":1.894},"boxtower":{"stages":[{"file":"t_boxtower_1.webp","cell":192,"ax":96.0,"ay":168.4,"ppu":79.448,"tips":[[106.2,114.2],[101.4,120.8],[90.6,122.0],[90.0,120.8],[85.2,114.2],[79.2,102.8],[79.8,97.4],[79.2,99.2],[81.0,94.4],[85.8,90.8],[90.6,89.0],[105.6,90.8],[110.4,95.0],[112.2,99.2],[111.6,97.4],[112.2,102.2]]},{"file":"t_boxtower_2.webp","cell":192,"ax":96.0,"ay":166.7,"ppu":66.207,"tips":[[104.0,107.0],[101.0,111.5],[92.0,113.0],[91.0,111.5],[87.5,107.0],[82.0,96.5],[82.5,92.0],[82.0,93.5],[83.5,90.0],[87.5,86.5],[92.0,85.0],[104.0,86.5],[108.0,90.0],[109.5,93.5],[109.0,92.0],[109.5,96.5]]},{"file":"t_boxtower_3.webp","cell":192,"ax":96.0,"ay":142.7,"ppu":66.207,"tips":[[112.5,63.0],[110.5,71.5],[80.0,75.5],[80.0,71.0],[80.0,64.5],[78.0,52.5],[82.5,46.5],[77.5,64.5],[75.5,59.0],[76.5,53.0],[104.0,48.0],[115.0,53.0],[116.0,59.0],[114.0,64.5],[109.0,46.5],[112.0,57.0]]},{"file":"t_boxtower_4.webp","cell":192,"ax":96.0,"ay":143.7,"ppu":66.207,"tips":[[111.5,59.0],[111.0,65.5],[80.0,70.0],[80.0,65.5],[80.0,59.0],[78.0,47.0],[82.5,41.0],[78.0,58.5],[75.5,53.5],[76.5,47.5],[104.0,42.5],[115.0,47.5],[116.0,53.0],[114.0,59.0],[109.0,41.0],[113.5,47.0]]},{"file":"t_boxtower_5.webp","cell":192,"ax":96.0,"ay":143.2,"ppu":66.207,"tips":[[115.0,49.0],[115.0,57.5],[75.5,63.0],[76.0,57.0],[76.5,49.0],[76.0,36.0],[82.5,30.5],[76.0,54.5],[72.5,48.5],[72.5,41.5],[115.0,35.0],[119.0,41.5],[119.0,48.5],[115.5,55.0],[109.0,30.5],[115.5,36.0]]}],"fit":2.147},"mortar":{"stages":[{"file":"t_mortar_1.webp","cell":192,"ax":96.0,"ay":160.0,"ppu":94.864,"tips":[[122.5,114.6],[115.3,121.7],[91.0,126.7],[75.9,121.7],[68.8,114.6],[66.6,109.6],[65.9,97.4],[65.9,97.4],[78.1,76.6],[82.4,73.0],[88.8,70.1],[108.9,73.0],[113.2,77.3],[125.4,97.4],[125.4,98.1],[125.4,107.4]]},{"file":"t_mortar_2.webp","cell":192,"ax":96.0,"ay":164.0,"ppu":83.083,"tips":[[119.8,120.5],[113.6,126.1],[96.0,131.1],[77.8,126.1],[70.9,119.8],[68.4,113.6],[67.8,104.8],[69.6,97.9],[72.8,93.5],[74.7,86.6],[106.0,80.9],[118.0,87.2],[120.5,96.0],[123.6,104.2],[123.6,106.0],[122.4,115.5]]},{"file":"t_mortar_3.webp","cell":192,"ax":96.0,"ay":165.7,"ppu":70.231,"tips":[[118.3,123.6],[111.9,130.0],[94.9,134.2],[79.0,129.5],[73.7,124.2],[71.6,119.9],[71.1,109.8],[71.1,109.3],[69.5,108.2],[68.4,99.8],[92.8,89.2],[124.1,100.3],[121.5,107.2],[120.4,109.3],[120.4,109.8],[120.4,118.3]]},{"file":"t_mortar_4.webp","cell":192,"ax":96.0,"ay":164.2,"ppu":66.207,"tips":[[118.0,123.0],[112.5,128.5],[95.5,133.5],[79.0,128.5],[73.5,123.0],[71.0,116.5],[71.0,110.5],[71.0,109.0],[63.0,115.0],[57.0,105.5],[104.0,91.0],[133.0,104.5],[128.0,114.5],[119.5,106.0],[120.5,110.5],[120.5,116.5]]},{"file":"t_mortar_5.webp","cell":192,"ax":96.0,"ay":143.7,"ppu":66.207,"tips":[[119.0,99.0],[113.0,104.5],[95.5,109.5],[79.0,105.0],[72.0,98.0],[70.5,94.5],[69.5,86.0],[70.5,81.5],[55.0,97.0],[44.5,85.5],[93.5,64.5],[146.0,85.0],[136.5,97.0],[121.0,81.5],[122.0,86.0],[120.5,96.0]]}],"fit":2.515},"watergun":{"stages":[{"file":"t_watergun_1.webp","cell":192,"ax":96.0,"ay":168.3,"ppu":97.036,"tips":[[135.6,104.3],[112.9,127.0],[90.1,131.4],[79.1,127.7],[55.7,104.3],[44.0,90.4],[40.3,72.0],[44.0,57.4],[55.7,44.2],[74.0,34.7],[96.0,31.0],[117.3,34.7],[135.6,44.2],[147.3,57.4],[151.0,72.8],[147.3,91.1]]},{"file":"t_watergun_2.webp","cell":192,"ax":96.0,"ay":169.8,"ppu":83.63,"tips":[[135.2,107.1],[111.8,129.8],[95.4,134.2],[79.6,129.8],[56.2,107.1],[46.7,93.2],[45.5,76.1],[47.4,69.2],[56.2,56.5],[71.4,47.1],[90.3,42.6],[119.4,47.1],[135.2,57.2],[144.0,69.2],[145.9,76.7],[144.6,92.5]]},{"file":"t_watergun_3.webp","cell":192,"ax":96.0,"ay":168.1,"ppu":69.845,"tips":[[133.5,108.3],[109.7,131.0],[94.4,134.7],[81.8,131.0],[58.0,108.3],[51.7,96.7],[51.7,81.4],[51.7,80.9],[58.0,69.3],[70.7,59.8],[87.0,54.5],[120.8,59.8],[132.9,68.8],[139.8,80.9],[139.8,81.4],[139.8,96.7]]},{"file":"t_watergun_4.webp","cell":192,"ax":96.0,"ay":167.7,"ppu":66.207,"tips":[[118.0,130.5],[108.0,136.0],[95.5,137.5],[83.5,136.0],[73.0,130.5],[50.5,94.5],[52.0,79.0],[50.5,84.0],[56.0,71.5],[68.0,61.0],[83.0,55.5],[123.5,61.0],[135.5,71.5],[141.0,84.0],[139.5,79.0],[141.0,94.5]]},{"file":"t_watergun_5.webp","cell":192,"ax":96.0,"ay":161.7,"ppu":66.207,"tips":[[132.5,107.0],[108.5,126.5],[95.5,128.0],[83.0,126.5],[59.0,107.0],[49.0,93.5],[46.5,77.0],[49.0,67.5],[58.5,55.0],[72.5,46.5],[92.5,42.0],[119.0,46.5],[133.0,55.0],[142.5,67.5],[145.0,77.0],[142.5,93.5]]}],"fit":2.554},"chili":{"stages":[{"file":"t_chili_1.webp","cell":192,"ax":96.0,"ay":171.1,"ppu":72.638,"tips":[[114.7,126.4],[109.7,130.8],[93.8,134.6],[82.3,131.3],[77.3,127.0],[72.4,114.9],[70.8,103.4],[71.9,99.5],[76.8,92.9],[82.3,89.7],[91.1,86.4],[108.1,89.1],[116.3,95.1],[119.6,99.5],[120.7,103.9],[118.5,117.1]]},{"file":"t_chili_2.webp","cell":192,"ax":96.0,"ay":169.2,"ppu":66.207,"tips":[[113.5,121.0],[108.5,126.0],[95.0,129.5],[83.0,126.0],[78.5,122.0],[73.0,114.5],[70.5,99.0],[71.5,95.5],[76.0,89.0],[83.0,84.5],[93.0,82.0],[108.5,84.5],[116.0,89.5],[120.0,95.0],[121.0,99.0],[119.5,111.5]]},{"file":"t_chili_3.webp","cell":192,"ax":96.0,"ay":164.7,"ppu":66.207,"tips":[[117.0,108.5],[108.5,115.0],[95.5,118.5],[83.0,115.0],[73.5,107.0],[70.0,102.0],[68.0,85.5],[69.0,82.0],[73.5,75.5],[82.5,69.5],[94.0,67.0],[109.0,69.5],[118.0,75.5],[122.5,82.0],[123.5,86.0],[122.0,100.0]]},{"file":"t_chili_4.webp","cell":192,"ax":96.0,"ay":143.7,"ppu":66.207,"tips":[[119.0,83.0],[108.5,90.5],[94.0,93.0],[81.5,89.5],[72.5,83.0],[67.5,74.0],[66.0,59.5],[67.0,55.5],[72.0,48.0],[79.0,43.0],[93.0,39.0],[111.5,42.5],[120.0,48.5],[124.5,55.5],[125.5,59.5],[123.5,76.0]]},{"file":"t_chili_5.webp","cell":192,"ax":96.0,"ay":143.7,"ppu":66.207,"tips":[[120.5,79.0],[111.0,86.0],[95.0,89.5],[80.5,86.0],[71.0,79.0],[65.5,69.5],[64.0,54.0],[65.0,50.0],[70.0,42.0],[79.0,35.5],[91.5,32.0],[112.5,35.5],[121.5,42.0],[126.0,48.0],[127.5,54.0],[125.5,71.0]]}],"fit":2.443},"rockets":{"stages":[{"file":"t_rockets_1.webp","cell":192,"ax":96.0,"ay":167.9,"ppu":94.864,"tips":[[120.4,122.5],[113.2,128.9],[91.0,133.2],[78.1,128.9],[70.9,122.5],[58.0,93.1],[57.3,81.6],[57.3,81.6],[63.8,71.6],[74.5,63.7],[103.2,58.7],[117.5,63.7],[127.5,71.6],[134.0,81.6],[133.3,81.6],[133.3,93.1]]},{"file":"t_rockets_2.webp","cell":192,"ax":96.0,"ay":169.5,"ppu":83.63,"tips":[[118.7,125.1],[113.1,130.1],[94.7,135.2],[78.3,130.1],[73.9,126.3],[59.4,98.5],[58.1,87.2],[58.7,86.5],[68.2,71.4],[77.1,64.4],[89.1,60.6],[114.3,64.4],[122.5,71.4],[132.6,86.5],[132.6,87.2],[132.6,98.5]]},{"file":"t_rockets_3.webp","cell":192,"ax":96.0,"ay":167.9,"ppu":70.231,"tips":[[116.7,125.8],[111.4,131.1],[93.3,135.3],[81.1,131.6],[74.8,125.8],[62.1,99.8],[63.6,89.7],[62.1,96.6],[65.2,87.0],[74.8,75.9],[84.3,71.1],[116.7,75.9],[123.6,82.8],[129.9,96.6],[127.8,89.7],[129.4,99.8]]},{"file":"t_rockets_4.webp","cell":192,"ax":96.0,"ay":165.2,"ppu":66.207,"tips":[[116.5,124.0],[110.5,129.5],[91.0,133.0],[81.0,129.5],[75.0,124.0],[61.0,99.0],[62.5,88.5],[61.0,94.5],[70.5,77.0],[76.5,70.5],[85.0,66.0],[115.0,70.5],[121.0,77.0],[130.5,94.5],[129.0,88.5],[130.5,99.0]]},{"file":"t_rockets_5.webp","cell":192,"ax":96.0,"ay":159.7,"ppu":66.207,"tips":[[118.0,114.0],[112.0,120.0],[95.0,124.5],[79.5,120.0],[74.5,115.5],[58.0,85.5],[61.5,82.5],[58.0,87.5],[60.5,76.5],[71.0,61.0],[80.0,55.0],[120.5,61.5],[128.0,73.0],[133.5,87.5],[130.0,74.5],[133.5,85.5]]}],"fit":2.515},"fan":{"stages":[{"file":"t_fan_1.webp","cell":192,"ax":96.0,"ay":167.8,"ppu":96.301,"tips":[[111.3,93.4],[96.7,111.5],[93.8,111.5],[93.8,110.8],[80.0,93.4],[80.7,85.4],[82.9,75.9],[79.3,76.6],[79.3,65.0],[84.4,57.0],[91.6,53.4],[108.4,57.7],[112.7,65.7],[112.0,76.6],[108.4,75.9],[111.3,83.2]]},{"file":"t_fan_2.webp","cell":192,"ax":96.0,"ay":169.8,"ppu":83.63,"tips":[[113.7,94.4],[96.6,115.3],[94.1,115.3],[94.7,115.3],[79.6,96.9],[82.1,91.9],[84.6,82.4],[81.5,78.0],[78.9,71.7],[84.6,62.8],[92.8,59.1],[108.0,63.5],[111.8,71.1],[110.5,79.9],[106.7,81.8],[109.3,91.9]]},{"file":"t_fan_3.webp","cell":192,"ax":96.0,"ay":167.9,"ppu":70.231,"tips":[[109.8,101.9],[96.5,117.3],[95.5,117.8],[94.9,117.3],[81.7,101.9],[83.8,97.1],[86.5,87.0],[82.7,83.9],[80.6,77.0],[84.3,69.5],[95.5,65.3],[107.1,69.5],[109.8,75.9],[108.2,82.3],[105.0,87.0],[109.8,90.2]]},{"file":"t_fan_4.webp","cell":192,"ax":96.0,"ay":164.7,"ppu":66.207,"tips":[[118.5,93.5],[98.5,114.0],[94.5,115.0],[93.0,114.0],[73.0,93.5],[79.5,88.0],[87.0,84.5],[79.5,85.0],[73.5,79.0],[93.0,58.5],[95.5,58.0],[99.0,58.5],[118.5,79.0],[112.0,84.5],[104.5,85.0],[112.0,88.0]]},{"file":"t_fan_5.webp","cell":192,"ax":96.0,"ay":159.7,"ppu":66.207,"tips":[[120.5,82.5],[98.5,105.0],[95.5,106.0],[93.0,104.5],[71.0,82.5],[78.0,76.0],[87.0,73.0],[78.5,73.0],[71.5,67.0],[92.5,44.0],[95.5,44.5],[99.0,44.0],[120.0,67.0],[113.0,73.5],[104.5,73.0],[113.5,76.0]]}],"fit":2.515},"lens":{"stages":[{"file":"t_lens_1.webp","cell":192,"ax":96.0,"ay":167.8,"ppu":100.887,"tips":[[112.0,98.1],[105.1,104.2],[90.7,105.8],[84.6,103.5],[79.2,98.1],[57.9,63.9],[56.4,53.2],[57.9,47.9],[64.8,37.2],[76.2,29.6],[91.4,25.8],[116.6,30.3],[127.2,38.0],[133.3,47.1],[134.9,52.4],[133.3,63.9]]},{"file":"t_lens_2.webp","cell":192,"ax":96.0,"ay":169.3,"ppu":88.276,"tips":[[128.7,75.7],[104.0,105.0],[90.7,106.3],[85.3,103.7],[64.0,77.0],[58.7,67.0],[57.3,59.7],[59.3,51.7],[66.7,41.7],[75.3,36.3],[92.7,31.7],[116.0,36.3],[124.7,41.7],[132.0,51.7],[133.3,57.0],[132.7,67.0]]},{"file":"t_lens_3.webp","cell":192,"ax":96.0,"ay":174.2,"ppu":66.207,"tips":[[117.5,121.5],[90.0,137.5],[75.0,134.0],[65.0,126.0],[60.5,117.0],[60.0,105.5],[65.5,94.0],[68.0,81.5],[73.5,72.5],[80.5,68.0],[93.0,64.5],[111.0,68.0],[118.0,72.5],[123.0,79.5],[126.0,103.5],[124.0,113.5]]},{"file":"t_lens_4.webp","cell":192,"ax":96.0,"ay":169.7,"ppu":66.207,"tips":[[132.5,107.5],[127.5,117.5],[75.5,126.0],[65.0,118.0],[60.0,108.5],[59.0,95.5],[65.0,85.0],[67.0,71.5],[71.5,64.0],[80.5,57.5],[92.0,54.5],[108.0,56.0],[120.0,64.0],[124.5,71.5],[126.5,85.0],[132.5,95.5]]},{"file":"t_lens_5.webp","cell":192,"ax":96.0,"ay":163.7,"ppu":66.207,"tips":[[132.0,96.5],[127.0,106.0],[75.0,114.0],[64.5,106.0],[59.5,96.5],[58.5,83.5],[63.5,60.5],[64.5,56.5],[68.5,50.0],[80.0,41.5],[92.5,38.5],[112.5,42.0],[122.5,49.5],[127.0,56.5],[128.0,60.0],[133.0,83.5]]}],"fit":3.2}},"troops":{"fork":{"file":"u_fork.webp","ax":90.0,"ay":150.4,"h":147.4},"sling":{"file":"u_sling.webp","ax":90.0,"ay":150.4,"h":120.4},"giant":{"file":"u_giant.webp","ax":90.0,"ay":155.8,"h":136.8},"nurse":{"file":"u_nurse.webp","ax":90.0,"ay":163.6,"h":141.6},"digger":{"file":"u_digger.webp","ax":90.0,"ay":145.5,"h":121.5},"pot":{"file":"u_pot.webp","ax":90.0,"ay":152.0,"h":131.0},"chef":{"file":"u_chef.webp","ax":90.0,"ay":153.5,"h":123.5},"pig":{"file":"u_pig.webp","ax":90.0,"ay":155.7,"h":142.7},"bomber":{"file":"u_bomber.webp","ax":90.0,"ay":150.4,"h":110.4},"witch":{"file":"u_witch.webp","ax":90.0,"ay":155.1,"h":112.1},"dog":{"file":"u_dog.webp","ax":90.0,"ay":134.1,"h":104.1},"egret":{"file":"u_egret.webp","ax":90.0,"ay":150.9,"h":123.9},"cat_spatula":{"file":"u_cat_spatula.webp","ax":90.0,"ay":141.4,"h":107.4},"cat_pan":{"file":"u_cat_pan.webp","ax":90.0,"ay":144.1,"h":112.1},"cat_chili":{"file":"u_cat_chili.webp","ax":90.0,"ay":141.4,"h":105.4},"cat_bomb":{"file":"u_cat_bomb.webp","ax":90.0,"ay":141.4,"h":105.4},"cat_king":{"file":"u_cat_king.webp","ax":90.0,"ay":145.8,"h":125.8},"colonel":{"file":"u_colonel.webp","ax":135.0,"ay":221.9,"h":180.9,"cw":270,"ch":288},"balloon":{"file":"u_balloon.webp","ax":135.0,"ay":280.0,"h":241.0,"cw":270,"ch":288},"plane":{"file":"u_plane.webp","ax":90.0,"ay":145.2,"h":101.2}},"walls":{"1":{"post":{"file":"w_1_post.webp","ax":6.0,"ay":86.5,"ppu":132.5,"w":55,"h":67},"linkx":{"file":"w_1_linkx.webp","ax":2.0,"ay":54.5,"ppu":132.5,"w":51,"h":51},"linky":{"file":"w_1_linky.webp","ax":2.0,"ay":86.5,"ppu":132.5,"w":51,"h":46}},"2":{"post":{"file":"w_2_post.webp","ax":10.0,"ay":94.5,"ppu":132.5,"w":59,"h":76},"linkx":{"file":"w_2_linkx.webp","ax":2.0,"ay":59.5,"ppu":132.5,"w":51,"h":66},"linky":{"file":"w_2_linky.webp","ax":2.0,"ay":94.5,"ppu":132.5,"w":51,"h":66}},"3":{"post":{"file":"w_3_post.webp","ax":12.0,"ay":105.5,"ppu":132.5,"w":64,"h":90},"linkx":{"file":"w_3_linkx.webp","ax":4.0,"ay":70.5,"ppu":132.5,"w":55,"h":85},"linky":{"file":"w_3_linky.webp","ax":5.0,"ay":105.5,"ppu":132.5,"w":57,"h":84}},"4":{"post":{"file":"w_4_post.webp","ax":14.0,"ay":106.5,"ppu":132.5,"w":63,"h":92},"linkx":{"file":"w_4_linkx.webp","ax":2.0,"ay":73.5,"ppu":132.5,"w":51,"h":82},"linky":{"file":"w_4_linky.webp","ax":2.0,"ay":106.5,"ppu":132.5,"w":51,"h":81}},"5":{"post":{"file":"w_5_post.webp","ax":21.0,"ay":96.5,"ppu":132.5,"w":81,"h":83},"linkx":{"file":"w_5_linkx.webp","ax":7.0,"ay":64.5,"ppu":132.5,"w":67,"h":73},"linky":{"file":"w_5_linky.webp","ax":7.0,"ay":96.5,"ppu":132.5,"w":67,"h":73}},"6":{"post":{"file":"w_6_post.webp","ax":49.0,"ay":119.5,"ppu":132.5,"w":108,"h":115},"linkx":{"file":"w_6_linkx.webp","ax":12.0,"ay":84.5,"ppu":132.5,"w":71,"h":104},"linky":{"file":"w_6_linky.webp","ax":12.0,"ay":119.5,"ppu":132.5,"w":71,"h":104}}},"troopLayout":{"cw":180,"ch":192,"dirs":8,"idle":[0,4],"walk":[4,8],"attack":[12,4],"death":[16,5]}};
 // ---- src/01-core.js ----
 // Duck War — core: canvas, isometric camera (matches the Blender game camera: yaw 45°, elevation 48.6°),
 // touch/mouse input, image loading, save data. Everything else builds on these helpers.

diff --git a/tools/art/blender/build_duck.py b/tools/art/blender/build_duck.py
@@ -1110,19 +1110,25 @@ if COL:
 
 
 if VARIANT == "balloon":
+    # The joke: the bag got tied to its foot and carried it off, so it never stops struggling up there:
+    # wings flapping wildly, free leg kicking, body twisting, beak squawking, bag tugging and swaying.
     for nm in ("Idle", "Walk"):
         bpy.data.actions.remove(bpy.data.actions[nm])
+    def struggle(f, ph, lean):
+        # the atlas samples only 4 idle / 8 walk frames per loop, so use frequencies that don't vanish at those phases
+        flap = math.sin(ph * 3 + 0.6); kick = math.sin(ph * 2 + 0.9); tw = math.sin(ph + 0.5)
+        full(f, {"root": {"l": (0, 0, 0.06 * math.sin(ph * 2)), "r": (lean + 6 * math.sin(ph * 2), 10 * tw, 12 * math.sin(ph))},
+                 "bag": {"r": (5 * math.sin(ph * 2 + 1), 6 * math.sin(ph + 2), 0), "s": (1 + 0.05 * math.sin(ph * 2 + 1.2), 1 - 0.06 * math.sin(ph * 2 + 1.2), 1 + 0.05 * math.sin(ph * 2 + 1.2))},
+                 "body": {"r": (8 * kick, 0, 16 * tw), "s": (1 + 0.06 * flap, 1 - 0.07 * flap, 1 + 0.06 * flap)},
+                 "head": {"r": (-14 + 12 * math.sin(ph * 3 + 1.3), 0, 25 * math.sin(ph * 2 + 0.5))},
+                 "jaw": {"r": (22 + 18 * abs(math.sin(ph * 3 + 1.3)), 0, 0)},
+                 "wing.L": {"r": (0, 0, -55 - 45 * flap)}, "wing.R": {"r": (0, 0, 55 + 45 * flap)},
+                 "leg.L": {"r": (4 * kick, 0, 0)}, "leg.R": {"r": (-55 * kick, 0, 15 * tw), "s": (1, 1 + 0.15 * abs(kick), 1)},
+                 "tail": {"r": (0, 0, 30 * math.sin(ph * 3 + 2))}})
     new_action("Idle")
-    for f in range(0, 49, 4):
-        ph = 2 * math.pi * f / 48
-        full(f + 1, {"root": {"l": (0, 0, 0.05 * math.sin(ph))}, "bag": {"s": (1 + 0.04 * math.sin(ph + 1.2), 1 - 0.05 * math.sin(ph + 1.2), 1 + 0.04 * math.sin(ph + 1.2)), "r": (4 * math.sin(ph * 2), 0, 0)},
-                     "body": {"r": (0, 0, 5 * math.sin(ph))}, "head": {"r": (0, 0, 14 * math.sin(ph))}, "wing.L": {"r": (0, 0, -10 * math.sin(ph * 2))}, "wing.R": {"r": (0, 0, 10 * math.sin(ph * 2))}})
+    for f in range(0, 49, 2): struggle(f + 1, 2 * math.pi * f / 48, 0)
     new_action("Walk")
-    for f in range(0, 25, 3):
-        ph = 2 * math.pi * f / 24
-        full(f + 1, {"root": {"l": (0, 0, 0.06 * math.sin(ph)), "r": (10, 0, 4 * math.sin(ph))}, "bag": {"r": (-6 + 3 * math.sin(ph), 0, 0), "s": (1 + 0.05 * math.sin(ph * 2), 1 - 0.06 * math.sin(ph * 2), 1 + 0.05 * math.sin(ph * 2))},
-                     "body": {"r": (6, 0, 6 * math.sin(ph))}, "leg.L": {"r": (5 * math.sin(ph * 2), 0, 0)}, "leg.R": {"r": (-35 * math.sin(ph * 2), 0, 0)},
-                     "wing.L": {"r": (0, 0, -30 - 25 * abs(math.sin(ph * 2)))}, "wing.R": {"r": (0, 0, 30 + 25 * abs(math.sin(ph * 2)))}})
+    for f in range(0, 25, 2): struggle(f + 1, 2 * math.pi * f / 24, 10)
 
 if VARIANT in FLYERS:
     for nm in ("Idle", "Walk"):
